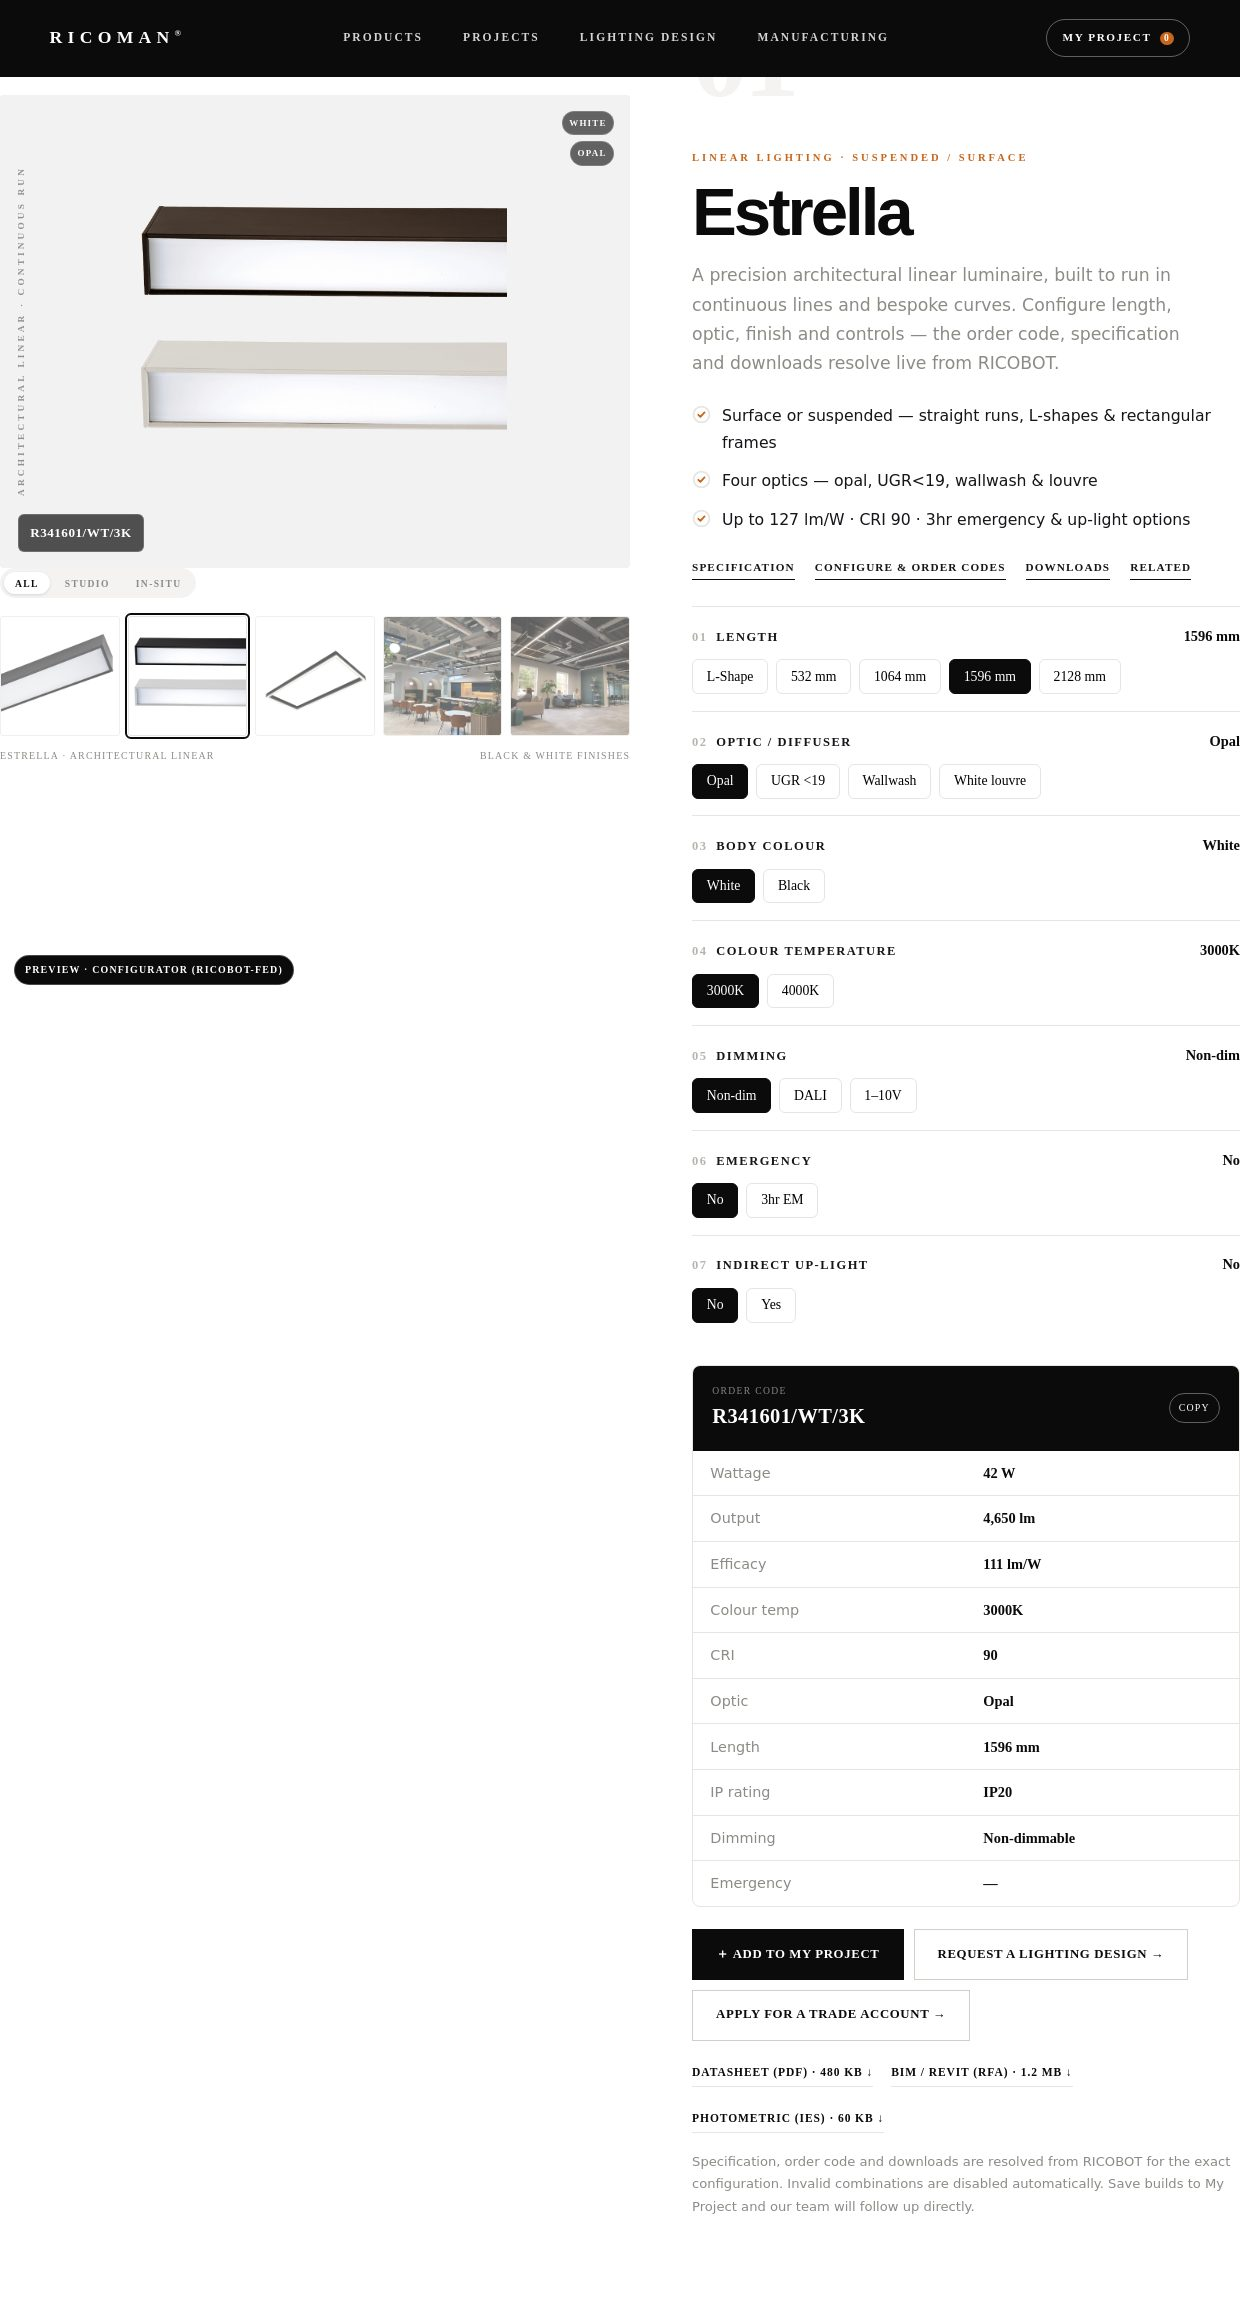
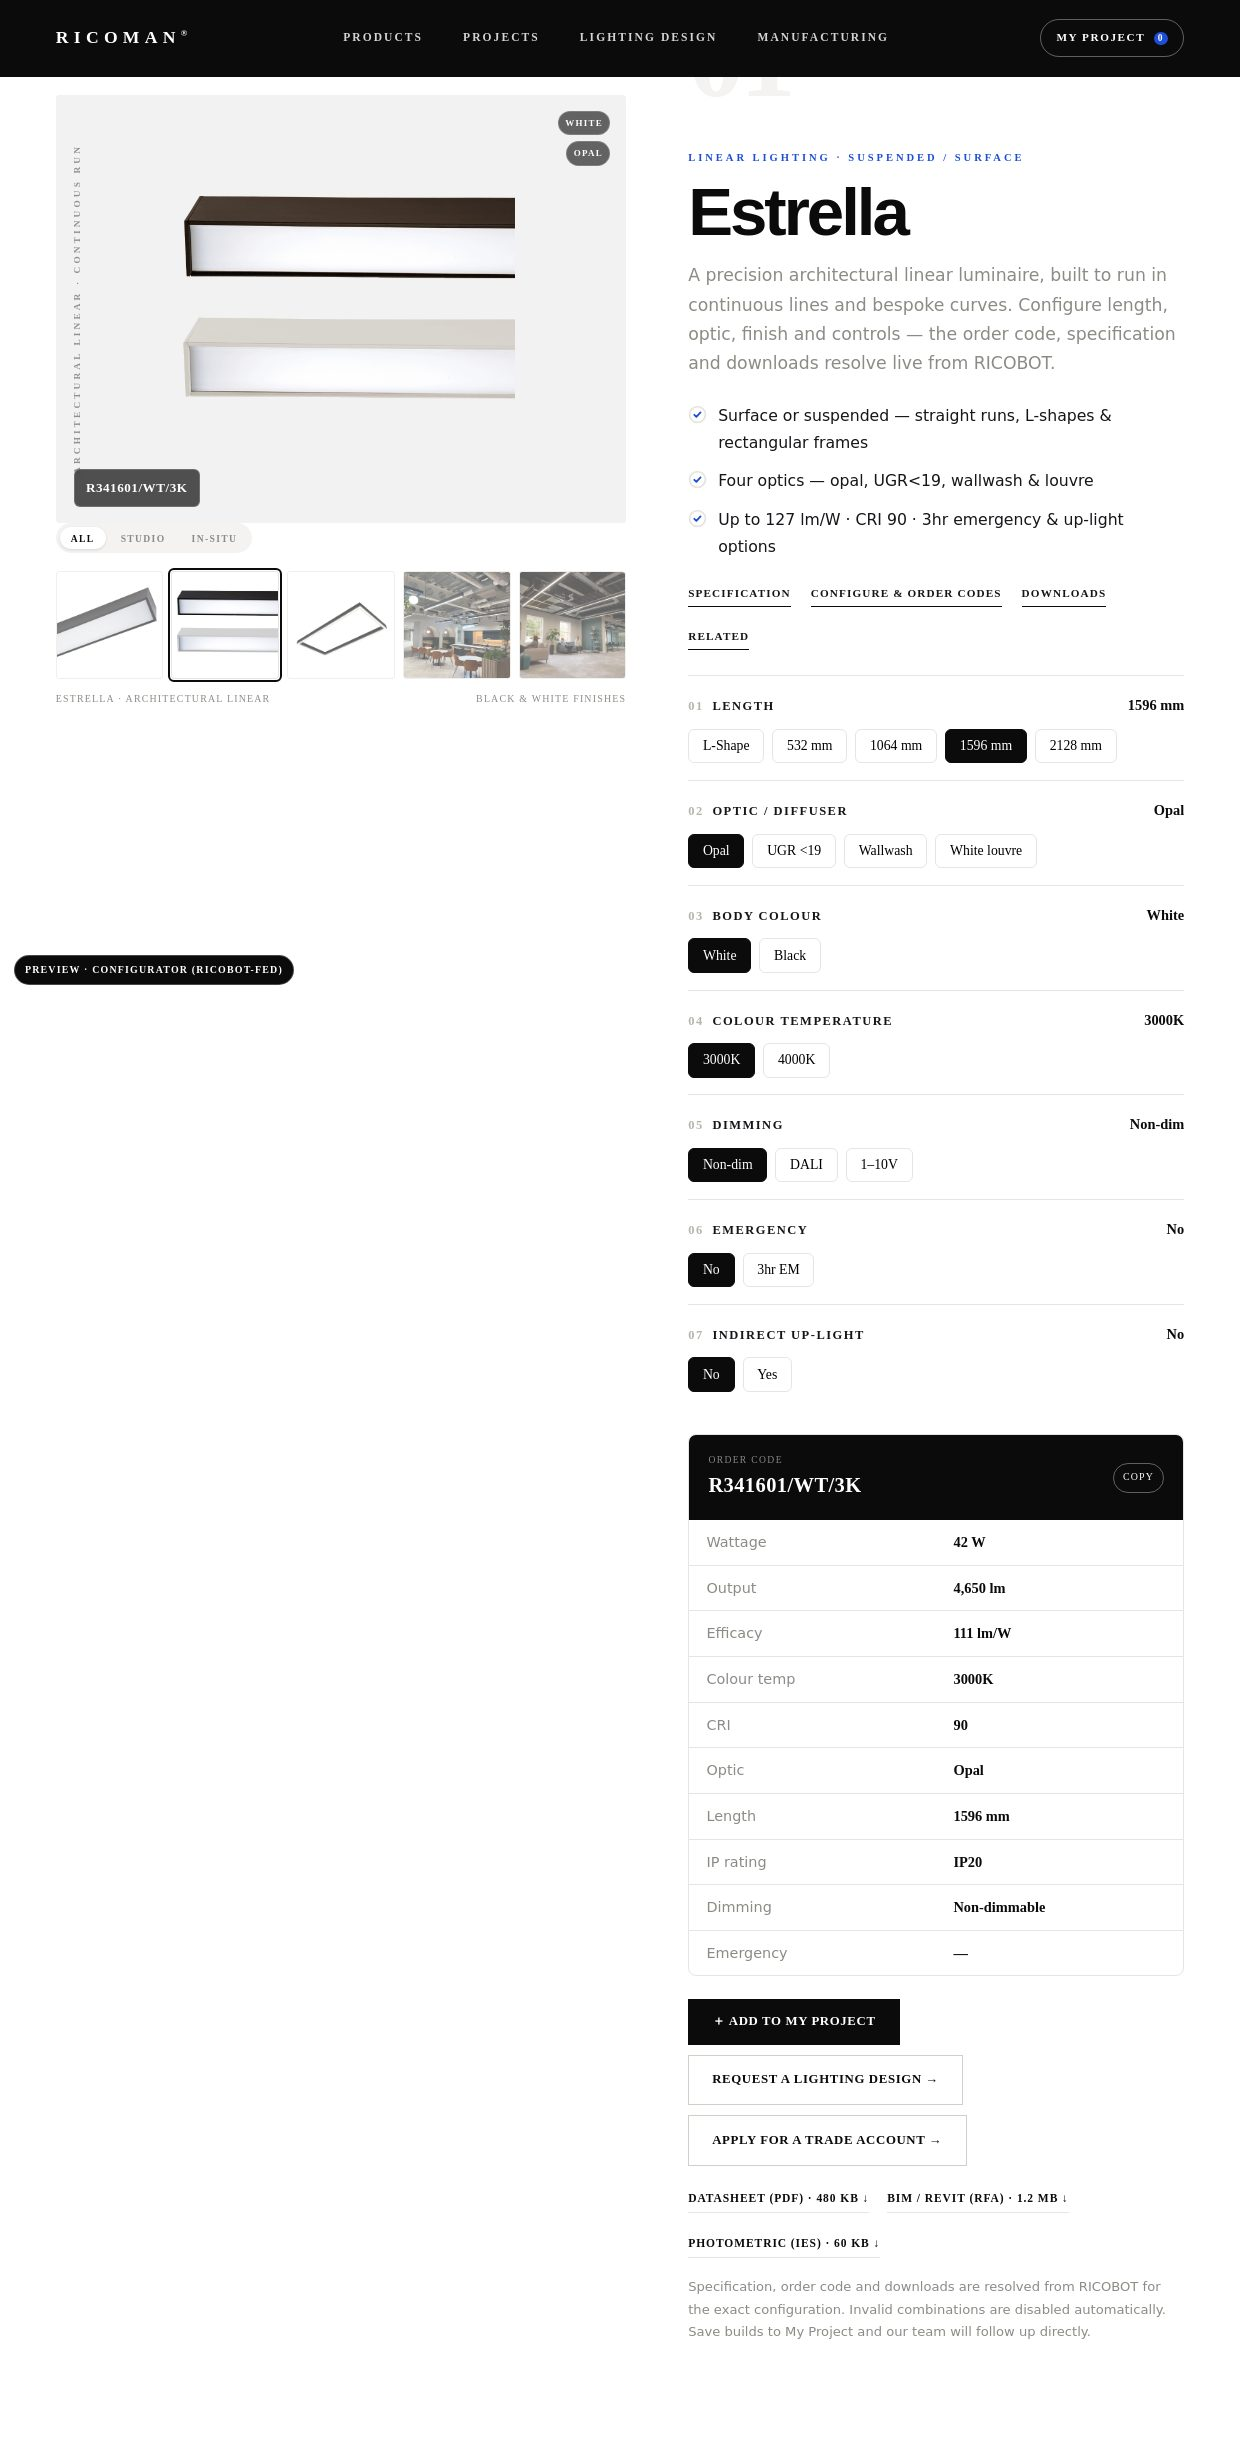
Configurator: fix mobile gutters, add blue accent + blue-on-black
- Fix root cause of tight margins: .cfg padding shorthand was zeroing the
  horizontal .wrap gutter, so the configurator sat edge-to-edge. Now sets
  vertical padding only; mobile gutter is a comfortable 28px
- Replace orange accent with Ricoman blue (#1d4ed8) throughout (kickers,
  check icons, part codes, button hovers, project badge)
- Blue-on-black for impact on dark sections: dark-band kickers, spec-stat
  numbers and quote attribution now use a lighter brand blue
- Tint the facts band soft so the top no longer reads as one white block

Verified mobile (414/430): 28px gutters, no overflow, distinct section
rhythm; desktop unchanged.

Claude-Session: https://claude.ai/code/session_01JBb5MKmF3Fs7o1qCwzd3N5

diff --git a/previews/preview-configurator.html b/previews/preview-configurator.html
@@ -10,7 +10,7 @@
 <style>
 :root{
   --paper:#ffffff; --soft:#f4f3f1; --line:#e7e5e1; --ink:#0b0b0c;
-  --text:#16161a; --muted:#8c8b86; --faint:#b6b4ae; --blue:#1d4ed8; --accent:#c8651b;
+  --text:#16161a; --muted:#8c8b86; --faint:#b6b4ae; --blue:#1d4ed8; --blue-lt:#6c9bff; --accent:#1d4ed8;
   --wide:1440px; --pad:clamp(24px,4.5vw,72px);
 }
 *{box-sizing:border-box}
@@ -44,7 +44,7 @@ header.site{position:-webkit-sticky;position:sticky;top:0;z-index:50;background:
 .crumb{font-family:Poppins;font-size:.66rem;letter-spacing:.14em;text-transform:uppercase;color:var(--muted);padding:26px 0 0}
 .crumb .sep{color:var(--line);margin:0 .6em}
 
-.cfg{display:grid;grid-template-columns:minmax(0,1.15fr) minmax(0,1fr);gap:clamp(34px,5vw,88px);align-items:start;padding:30px 0 clamp(50px,7vw,90px)}
+.cfg{display:grid;grid-template-columns:minmax(0,1.15fr) minmax(0,1fr);gap:clamp(34px,5vw,88px);align-items:start;padding-top:30px;padding-bottom:clamp(50px,7vw,90px)}
 @media(max-width:920px){.cfg{grid-template-columns:1fr}}
 
 /* ---- live preview stage : real Estrella photography ---- */
@@ -118,7 +118,7 @@ footer .brand{color:#fff;letter-spacing:.3em}
 /* =================== EDITORIAL CONTENT (Flow-style) =================== */
 .btn-line{border-color:rgba(255,255,255,.4);color:#fff}.btn-line:hover{background:#fff;color:var(--ink)}
 .kick .n{color:var(--ink);margin-right:1.4em}
-.kick.lt{color:rgba(255,255,255,.7)}.kick.lt .n{color:#fff}
+.kick.lt{color:var(--blue-lt)}.kick.lt .n{color:#fff}
 .col{max-width:1120px}
 .sec{padding-block:clamp(72px,10vw,160px)}
 .sec.tight{padding-block:clamp(48px,6vw,90px)}
@@ -163,7 +163,7 @@ footer .brand{color:#fff;letter-spacing:.3em}
 .specband .bg{position:absolute;inset:0;background:url(img/estrella-canteen.jpg) center/cover no-repeat}
 .specband .scrim{position:absolute;inset:0;background:rgba(8,8,9,.76)}
 .specband .grid{position:relative;display:grid;grid-template-columns:repeat(5,1fr);gap:24px;text-align:center;padding-block:clamp(64px,8vw,130px)}
-.specband b{font-family:Poppins;font-weight:500;font-size:clamp(1.8rem,3.6vw,3.2rem);color:#fff;display:block;letter-spacing:-.03em}
+.specband b{font-family:Poppins;font-weight:500;font-size:clamp(1.8rem,3.6vw,3.2rem);color:var(--blue-lt);display:block;letter-spacing:-.03em}
 .specband small{color:rgba(255,255,255,.55);text-transform:uppercase;letter-spacing:.2em;font-size:.62rem;font-family:Poppins;font-weight:600}
 @media(max-width:820px){.specband .grid{grid-template-columns:repeat(2,1fr);gap:40px}}
 
@@ -193,7 +193,7 @@ footer .brand{color:#fff;letter-spacing:.3em}
 .alt-soft{background:var(--soft)}
 .quote.dark{background:var(--ink)}
 .quote.dark blockquote{color:#fff}
-.quote.dark cite{color:rgba(255,255,255,.55)}
+.quote.dark cite{color:var(--blue-lt)}
 
 .shead{display:grid;grid-template-columns:1fr 1fr;gap:40px;align-items:end;margin-bottom:clamp(40px,6vw,80px)}
 .shead h2{font-size:clamp(2.2rem,4.6vw,4rem);margin:.5em 0 0;font-weight:600}
@@ -289,7 +289,8 @@ footer .brand{color:#fff;letter-spacing:.3em}
 
 /* ---- Mobile breathing room + section rhythm ---- */
 @media(max-width:620px){
-  .cfg{gap:52px;padding:28px 0 64px}
+  :root{--pad:28px}
+  .cfg{gap:52px;padding-top:28px;padding-bottom:64px}
   .crumb{padding:22px 0 0}
   .pdesc{margin-bottom:1.7em}
   .hl{gap:1.05em;margin-bottom:2em}
@@ -375,9 +376,9 @@ footer .brand{color:#fff;letter-spacing:.3em}
     </div>
 
     <ul class="hl">
-      <li><svg width="19" height="19" viewBox="0 0 24 24" fill="none" stroke="#c8651b" stroke-width="2.3" stroke-linecap="round" stroke-linejoin="round"><circle cx="12" cy="12" r="10" stroke="#e7e5e1"/><path d="M8 12.4l2.6 2.6 5.2-5.6"/></svg> Surface or suspended — straight runs, L-shapes &amp; rectangular frames</li>
-      <li><svg width="19" height="19" viewBox="0 0 24 24" fill="none" stroke="#c8651b" stroke-width="2.3" stroke-linecap="round" stroke-linejoin="round"><circle cx="12" cy="12" r="10" stroke="#e7e5e1"/><path d="M8 12.4l2.6 2.6 5.2-5.6"/></svg> Four optics — opal, UGR&lt;19, wallwash &amp; louvre</li>
-      <li><svg width="19" height="19" viewBox="0 0 24 24" fill="none" stroke="#c8651b" stroke-width="2.3" stroke-linecap="round" stroke-linejoin="round"><circle cx="12" cy="12" r="10" stroke="#e7e5e1"/><path d="M8 12.4l2.6 2.6 5.2-5.6"/></svg> Up to 127 lm/W · CRI 90 · 3hr emergency &amp; up-light options</li>
+      <li><svg width="19" height="19" viewBox="0 0 24 24" fill="none" stroke="#1d4ed8" stroke-width="2.3" stroke-linecap="round" stroke-linejoin="round"><circle cx="12" cy="12" r="10" stroke="#e7e5e1"/><path d="M8 12.4l2.6 2.6 5.2-5.6"/></svg> Surface or suspended — straight runs, L-shapes &amp; rectangular frames</li>
+      <li><svg width="19" height="19" viewBox="0 0 24 24" fill="none" stroke="#1d4ed8" stroke-width="2.3" stroke-linecap="round" stroke-linejoin="round"><circle cx="12" cy="12" r="10" stroke="#e7e5e1"/><path d="M8 12.4l2.6 2.6 5.2-5.6"/></svg> Four optics — opal, UGR&lt;19, wallwash &amp; louvre</li>
+      <li><svg width="19" height="19" viewBox="0 0 24 24" fill="none" stroke="#1d4ed8" stroke-width="2.3" stroke-linecap="round" stroke-linejoin="round"><circle cx="12" cy="12" r="10" stroke="#e7e5e1"/><path d="M8 12.4l2.6 2.6 5.2-5.6"/></svg> Up to 127 lm/W · CRI 90 · 3hr emergency &amp; up-light options</li>
     </ul>
     <div class="qlinks">
       <a href="#detail">Specification</a>
@@ -411,7 +412,7 @@ footer .brand{color:#fff;letter-spacing:.3em}
 </section>
 
 <!-- ============================ STORY / CONTENT ============================ -->
-<section class="facts"><div class="wrap">
+<section class="facts alt-soft"><div class="wrap">
   <div class="f"><small>Output</small><b>Up to 6,200 lm</b></div>
   <div class="f"><small>Colour</small><b>3000K / 4000K · CRI 90</b></div>
   <div class="f"><small>Optics</small><b>Opal · UGR&lt;19 · Wallwash</b></div>
